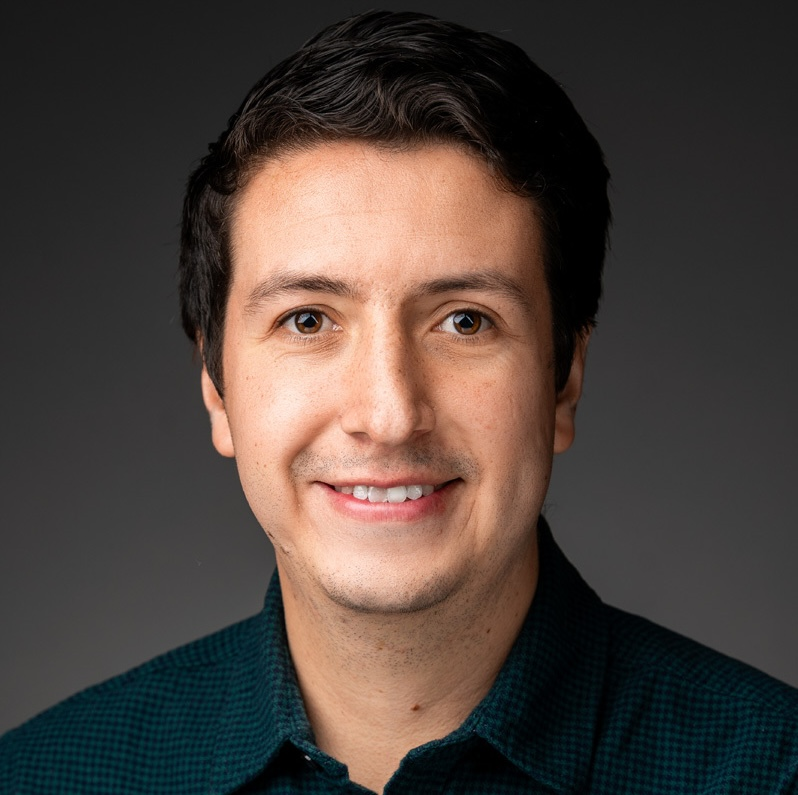
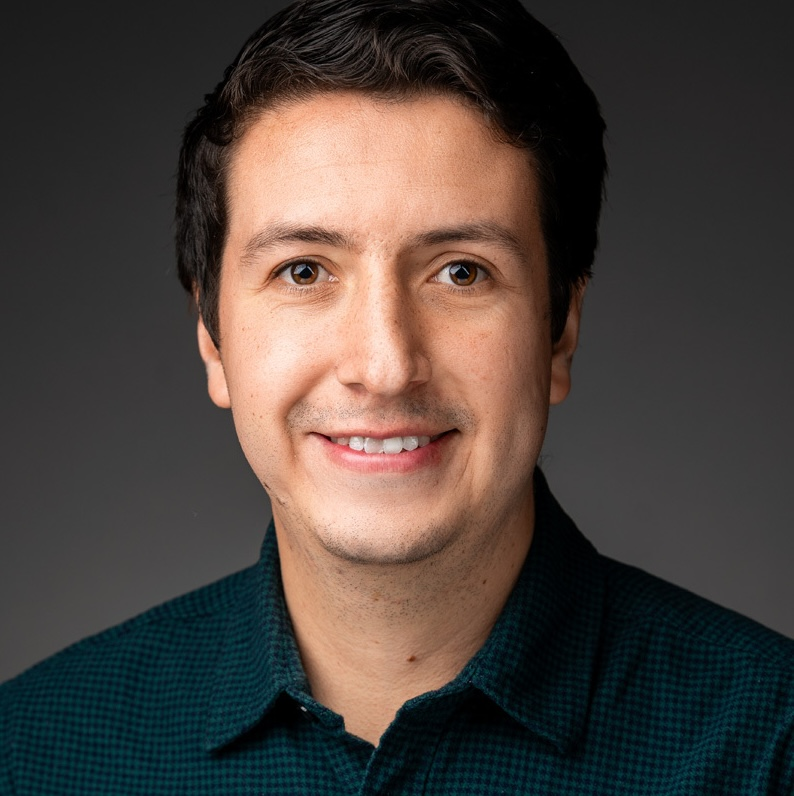
update announcements

diff --git a/_announcements/0000_annoucement-template.md b/_announcements/0000_annoucement-template.md
@@ -1,0 +1,10 @@
+---
+date: 2026-07-16T00:00:00-8:00
+published: false
+announcement_order: 1
+---
+This is a template for posting announcement to the Updates box on the home page. This template itself is not rendered.
+
+Regarding the yaml header
+* `published` controls if an annoucement should be published
+* `annoucement_order` controls the order of annoucements in the Updates box; lower number = bullet on top

diff --git a/_announcements/0720_welcome.md b/_announcements/0720_welcome.md
@@ -1,0 +1,6 @@
+---
+date: 2026-07-16T00:00:00-8:00
+published: true
+announcement_order: 10
+---
+We look forward to welcoming you to the SOAR² and learning together in September!

diff --git a/_announcements/0623_application-closed.md b/_announcements/0623_application-closed.md
@@ -1,6 +1,6 @@
 ---
 date: 2026-06-23T00:00:00-8:00
 announcement_order: 10
-published: true
+published: false
 ---
 Application decisions have been released. Thank you to everyone who applied, and congratulations to our 2026 SOAR² participants—we look forward to learning together in September.

diff --git a/subpages_sessions/88-keynote-lecture.md b/subpages_sessions/88-keynote-lecture.md
@@ -11,4 +11,4 @@ permalink: /sessions/keynote/
 />
 
 
-More information to come!
+_**More information to come!**_